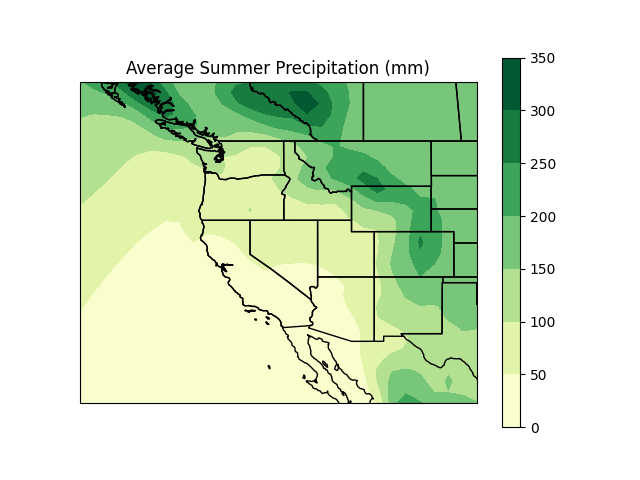
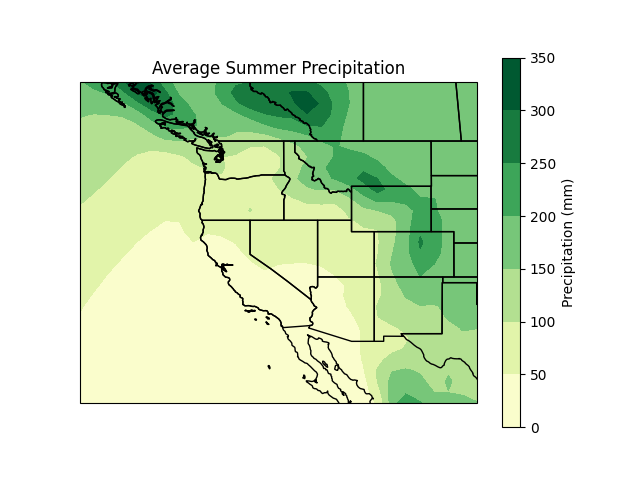
more labels adjusted

Changed region(s): [[0.1875, 0.125, 0.6875, 0.1562], [0.875, 0.375, 0.9062, 0.6562]]

diff --git a/Precipitation Scripts/precipAvg_interval_plots.py b/Precipitation Scripts/precipAvg_interval_plots.py
@@ -22,8 +22,8 @@ for i in seasons:
 #Plot the selected month with prettyColors function.
 szn_names = ['Winter', 'Spring', 'Summer', 'Fall']
 for i in range(0, 4):
-    pcp.prettyColors(seasonal_avgs[i], title = 'Average ' + szn_names[i] + ' Precipitation (mm)', cmap = 'YlGn', save = '/Users/dfencekey/Desktop/Coding/Capstone/Capstone-PDO-Precip-Data-Analysis/Plots/' + szn_names[i] + 'AvgPrecip.png')
+    pcp.prettyColors(seasonal_avgs[i], title = 'Average ' + szn_names[i] + ' Precipitation', cmap = 'YlGn', save = '/Users/dfencekey/Desktop/Coding/Capstone/Capstone-PDO-Precip-Data-Analysis/Plots/' + szn_names[i] + 'AvgPrecip.png', clabel = 'Precipitation (mm)')
 
 # Avg Annual Precip
 annual = pcp.interval(data, months = np.arange(1, 13))
-pcp.prettyColors(annual, title = 'Average Annual Precipitation (mm)', cmap = 'YlGn', save = '/Users/dfencekey/Desktop/Coding/Capstone/Capstone-PDO-Precip-Data-Analysis/Plots/AnnualAvgPrecip.png')
+pcp.prettyColors(annual, title = 'Average Annual Precipitation', cmap = 'YlGn', save = '/Users/dfencekey/Desktop/Coding/Capstone/Capstone-PDO-Precip-Data-Analysis/Plots/AnnualAvgPrecip.png', clabel = 'Precipitation (mm)')

diff --git a/Precipitation Scripts/seasonal_zscore_plots.py b/Precipitation Scripts/seasonal_zscore_plots.py
@@ -41,4 +41,4 @@ for i in seasons:
 #Plot the selected month with prettyColors function.
 szn_names = ['Winter', 'Spring', 'Summer', 'Fall']
 for i in range(0, 4):
-    pcp.prettyColors(seasonal_avgs[i], title = 'Average ' + szn_names[i] + ' Z-Scores', cmap = 'BrBG', save = ('/Users/dfencekey/Desktop/Coding/Capstone/Capstone-PDO-Precip-Data-Analysis/Plots/' + szn_names[i] + 'AvgZscores.png'), vmin = -0.6, vmax = 0.6)
+    pcp.prettyColors(seasonal_avgs[i], title = 'Average ' + szn_names[i] + ' Z-Scores During PCs', cmap = 'BrBG', save = ('/Users/dfencekey/Desktop/Coding/Capstone/Capstone-PDO-Precip-Data-Analysis/Plots/' + szn_names[i] + 'AvgZscores.png'), vmin = -0.6, vmax = 0.6, clabel = 'Z-Scores')

diff --git a/Precipitation Scripts/annual_zscore_plots.py b/Precipitation Scripts/annual_zscore_plots.py
@@ -27,4 +27,4 @@ grouped = test.groupby('time.month')
 grouped = grouped.mean(dim = ['members', 'time'])
 
 annual = pcp.interval(grouped, months = np.arange(0, 12))
-pcp.prettyColors(annual, title = 'Average Annual Z-Scores', cmap = 'BrBG', save = ('/Users/dfencekey/Desktop/Coding/Capstone/Capstone-PDO-Precip-Data-Analysis/Plots/AnnualAvgZscores.png'))
+pcp.prettyColors(annual, title = 'Average Annual Z-Scores During PCs', cmap = 'BrBG', save = ('/Users/dfencekey/Desktop/Coding/Capstone/Capstone-PDO-Precip-Data-Analysis/Plots/AnnualAvgZscores.png'), clabel = 'Z-Scores')
